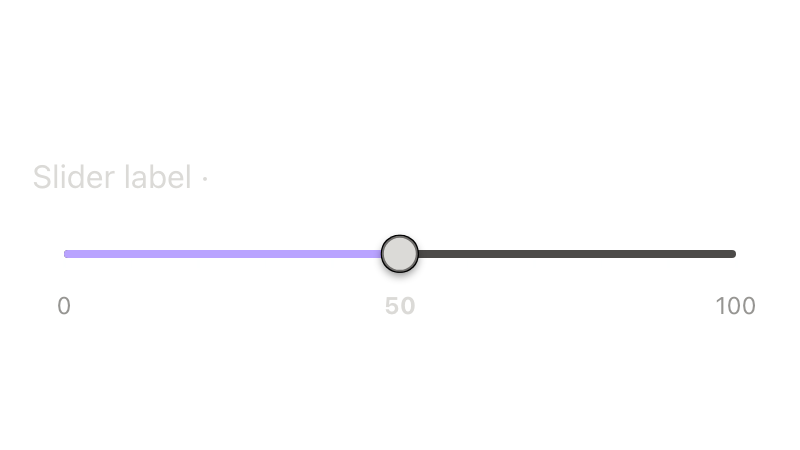
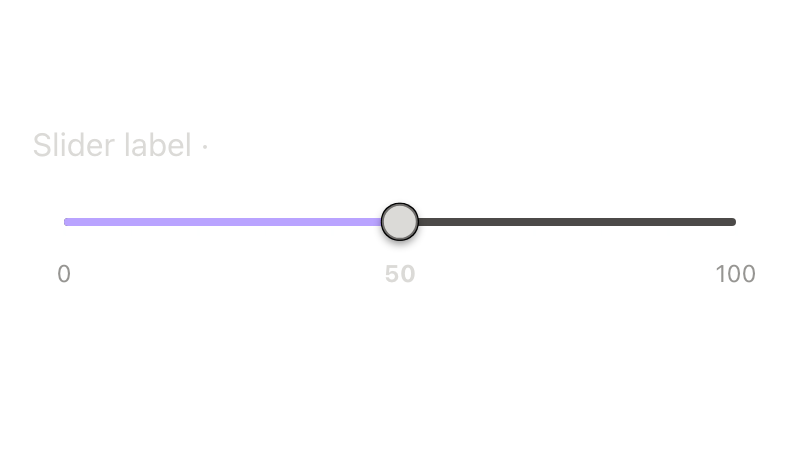
fix(slider): DLT-1974 reserve layout space for marks/readout below the track
Marks and the value readout are position:absolute against .d-slider__control,
so they render below the track but don't reserve any layout space of their
own — a sibling placed right after <dt-slider> renders on top of them. Since
marks default to labeling start/end and readout defaults to 'always', this
hit the component's default configuration, not just an edge case.

Adds a d-slider__body--reserve-annotation-space modifier, applied whenever
marks or a non-'never' readout would render, that reserves a fixed
allowance below the track (same bounded-margin approach as
.d-slider__control's own overflow-clip-margin, not an exact text
measurement). Skipped in vertical orientation, where marks/readout sit
beside the track instead of below it.

Verified visually with the compiled CSS + theme: content after the slider
no longer overlaps the marks row.

diff --git a/packages/dialtone-vue/components/Slider/Slider.test.js b/packages/dialtone-vue/components/Slider/Slider.test.js
@@ -2378,4 +2378,40 @@ describe('DtSlider Tests', () => {
       });
     });
   });
+
+  describe('Reserved space for marks/readout', () => {
+    // Marks/readout are position:absolute (see slider.less), so they don't
+    // naturally reserve layout space — without the reserve-space class,
+    // content right after <dt-slider> renders on top of them.
+    const bodySelector = '.d-slider__body';
+
+    it('reserves space by default — marks default to start/end and readout defaults to always', () => {
+      updateWrapper();
+      expect(wrapper.find(bodySelector).classes()).toContain('d-slider__body--reserve-annotation-space');
+    });
+
+    it('does not reserve space when both marks and readout are turned off', () => {
+      mockProps = { marks: false, readout: 'never' };
+      updateWrapper();
+      expect(wrapper.find(bodySelector).classes()).not.toContain('d-slider__body--reserve-annotation-space');
+    });
+
+    it('still reserves space for readout alone, with marks turned off', () => {
+      mockProps = { marks: false, readout: 'always' };
+      updateWrapper();
+      expect(wrapper.find(bodySelector).classes()).toContain('d-slider__body--reserve-annotation-space');
+    });
+
+    it('still reserves space for marks alone, with readout turned off', () => {
+      mockProps = { marks: [0, 100], readout: 'never' };
+      updateWrapper();
+      expect(wrapper.find(bodySelector).classes()).toContain('d-slider__body--reserve-annotation-space');
+    });
+
+    it('does not reserve space in vertical orientation — marks/readout sit beside the track there, not below it', () => {
+      mockProps = { orientation: 'vertical' };
+      updateWrapper();
+      expect(wrapper.find(bodySelector).classes()).not.toContain('d-slider__body--reserve-annotation-space');
+    });
+  });
 });

diff --git a/packages/dialtone-vue/components/Slider/Slider.vue b/packages/dialtone-vue/components/Slider/Slider.vue
@@ -41,7 +41,9 @@
         </dt-text>
       </slot>
     </div>
-    <div class="d-slider__body">
+    <div
+      :class="['d-slider__body', { 'd-slider__body--reserve-annotation-space': reservesAnnotationSpace }]"
+    >
       <div
         :class="['d-slider__start', startClass]"
         data-qa="dt-slider-start"
@@ -971,6 +973,16 @@ const computedMarks = computed(() => {
     return { text, pct: thumbPercent(value) };
   });
 });
+
+// Marks/readout are position:absolute (see slider.less) so they don't push
+// following content down on their own, even though they render below the
+// track — a sibling right after <dt-slider> would overlap them. Only relevant
+// horizontally: in vertical mode marks/readout sit to the side of the track,
+// not below it. Ticks don't need this — they sit close enough to the track to
+// stay within the control's own box (see slider.less).
+const reservesAnnotationSpace = computed(() => (
+  !isVertical.value && (computedMarks.value.length > 0 || props.readout !== 'never')
+));
 
 function markStyle(pct) {
   return positionStyle(pct);

diff --git a/packages/dialtone-css/lib/build/less/components/slider.less b/packages/dialtone-css/lib/build/less/components/slider.less
@@ -94,6 +94,16 @@
     inline-size: 100%;
 }
 
+// Marks/readout (see below) are position:absolute against .d-slider__control,
+// so they don't naturally reserve layout space the way in-flow content would
+// — without this, a sibling right after <dt-slider> renders on top of them.
+// A fixed allowance sized for one line of their text, not an exact
+// measurement (same bounded approach .d-slider__control's own
+// overflow-clip-margin below takes for the same row).
+.d-slider__body--reserve-annotation-space {
+    padding-block-end: var(--dt-spacing-400);
+}
+
 .d-slider__start,
 .d-slider__end {
     display: flex;
